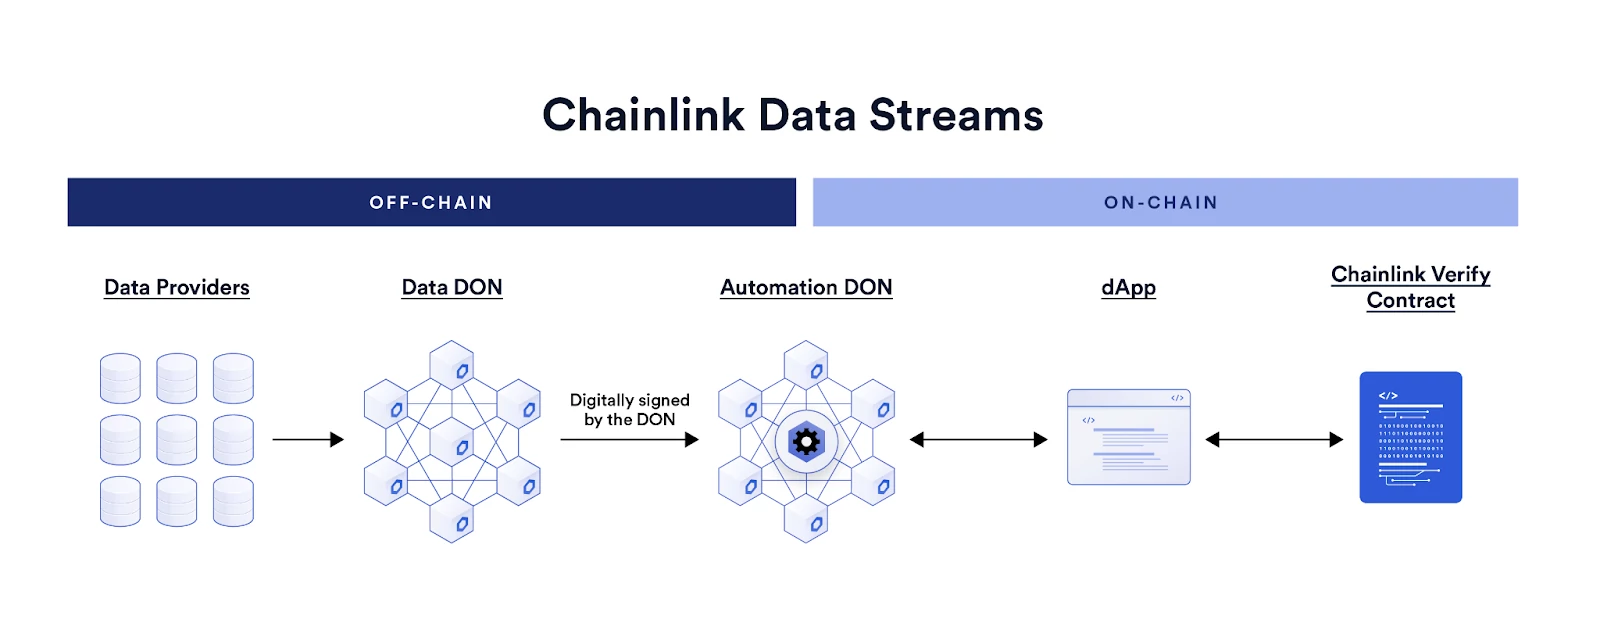
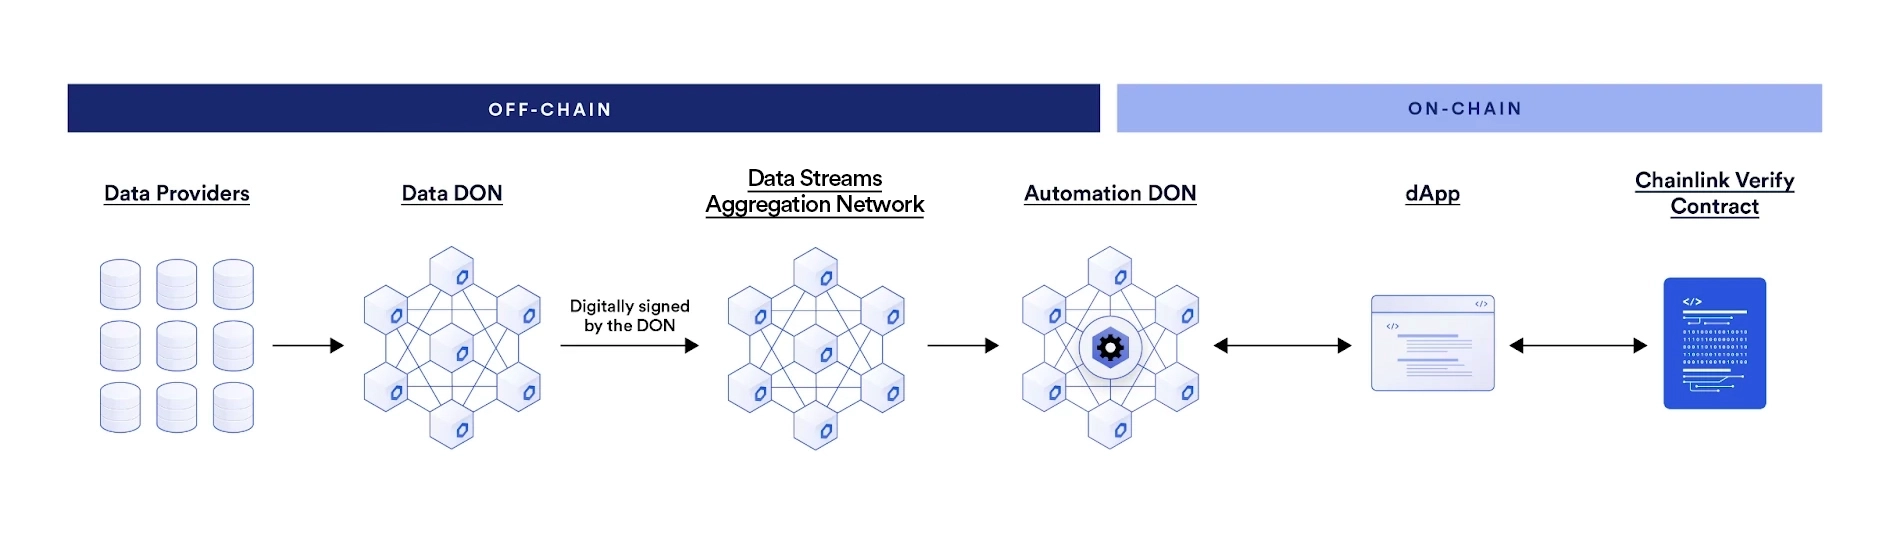
Data Streams - Update (#1869)
* DS Update

* DS Update

* Update src/features/chainlink-automation/common/StreamsLookupInterface.mdx

* Report schema note

* Update RRD Preview URL

* Update notes

* Update diagrams

---------

Changed region(s): [[0.0312, 0.1481, 0.9688, 0.8593], [0.25, 0.4148, 0.3125, 0.4741], [0.6875, 0.4444, 0.7188, 0.4741]]

diff --git a/src/features/data/chains.ts b/src/features/data/chains.ts
@@ -193,7 +193,8 @@ export const CHAINS: Chain[] = [
         name: "Arbitrum Mainnet",
         explorerUrl: "https://arbiscan.io/address/%s",
         networkType: "mainnet",
-        rddUrl: "https://reference-data-directory.vercel.app/feeds-ethereum-mainnet-arbitrum-1.json",
+        rddUrl:
+          "https://reference-data-directory-r9449l7ul-chainlinklabs.vercel.app/feeds-ethereum-mainnet-arbitrum-1.json",
         queryString: "arbitrum-mainnet",
         tags: ["nftFloorPrice", "streams"],
       },
@@ -201,7 +202,8 @@ export const CHAINS: Chain[] = [
         name: "Arbitrum Sepolia",
         explorerUrl: "https://sepolia.arbiscan.io/address/%s",
         networkType: "testnet",
-        rddUrl: "https://reference-data-directory.vercel.app/feeds-ethereum-testnet-sepolia-arbitrum-1.json",
+        rddUrl:
+          "https://reference-data-directory-r9449l7ul-chainlinklabs.vercel.app/feeds-ethereum-testnet-sepolia-arbitrum-1.json",
         queryString: "arbitrum-sepolia",
         tags: ["rates", "streams"],
       },

diff --git a/src/features/feeds/components/Tables.tsx b/src/features/feeds/components/Tables.tsx
@@ -339,7 +339,6 @@ const StreamsTr = ({ network, proxy, showExtraDetails }) => (
     <td class={tableStyles.pairCol}>
       <div className={tableStyles.assetPair}>
         {proxy.pair[0]}/{proxy.pair[1]}
-        {proxy.docs.schema ? <div>Schema: {proxy.docs.schema}</div> : ""}
       </div>
       {proxy.docs.shutdownDate && (
         <div className={clsx(feedList.shutDate)}>
